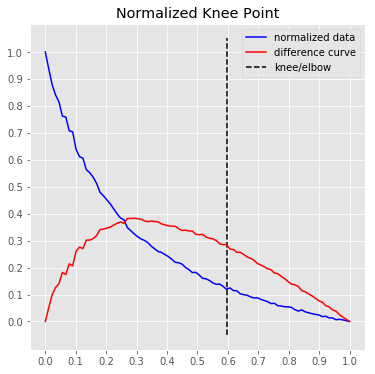
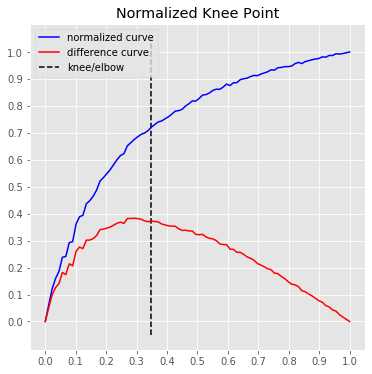
WIP: knee is the first knee, update plots

diff --git a/kneed/knee_locator.py b/kneed/knee_locator.py
@@ -79,7 +79,8 @@ class KneeLocator(object):
         self.Tmx = self.y_distance_maxima - (self.S * np.abs(np.diff(self.x_normalized).mean()))
 
         # Step 6: find knee
-        self.knee, self.norm_knee = self.find_knee()
+        self.find_knee()
+        self.knee, self.norm_knee = min(self.all_knees), min(self.all_norm_knees)
 
     @staticmethod
     def __normalize(a):
@@ -104,23 +105,17 @@ class KneeLocator(object):
             x = np.flip(x)
             y = np.flip(y)
 
-        return (x, y)
+        return x, y
 
     def find_knee(self, ):
-        """This function finds and returns the knee value, the normalized knee
-        value, and the x value where the knee is located.
-        :returns: tuple(knee, norm_knee, knee_x)
-        :rtype: (float, float, int)
-        )
-        """
+        """This function finds and sets the knee value and the normalized knee value. """
         if not self.maxima_inidices.size:
             warnings.warn("No local maxima found in the distance curve\n"
                           "The line is probably not polynomial, try plotting\n"
                           "the distance curve with plt.plot(knee.x_distance, knee.y_distance)\n"
                           "Also check that you aren't mistakenly setting the curve argument", RuntimeWarning)
-            return None, None, None
+            return None, None
 
-        knee, norm_knee, knee_x = None, None, None
         # artificially place a local max at the last item in the x_distance array
         self.maxima_inidices = np.append(self.maxima_inidices, len(self.x_distance) - 1)
         self.minima_indices = np.append(self.minima_indices, len(self.x_distance) - 1)
@@ -130,6 +125,7 @@ class KneeLocator(object):
         minima_threshold_index = 0
         # traverse the distance curve
         for idx, i in enumerate(self.x_distance):
+            # reached the end of the curve
             if i == 1.0:
                 break
             # values in distance curve are at or after a local maximum
@@ -171,7 +167,8 @@ class KneeLocator(object):
                         norm_knee = self.x_normalized[threshold_index]
                         self.all_norm_knees.add(norm_knee)
 
-        return knee, norm_knee
+        if self.all_knees == set():
+            warnings.warn('No knee/elbow found')
 
     def plot_knee_normalized(self, ):
         """Plot the normalized curve, the distance curve (x_distance, y_normalized) and the
@@ -179,21 +176,24 @@ class KneeLocator(object):
         """
         import matplotlib.pyplot as plt
 
-        plt.figure(figsize=(8, 8))
-        plt.plot(self.x_normalized, self.y_normalized)
-        plt.plot(self.x_distance, self.y_distance, 'r')
+        plt.figure(figsize=(6, 6))
+        plt.title('Normalized Knee Point')
+        plt.plot(self.x_normalized, self.y_normalized, 'b', label='normalized curve')
+        plt.plot(self.x_distance, self.y_distance, 'r', label='difference curve')
         plt.xticks(np.arange(self.x_normalized.min(), self.x_normalized.max() + 0.1, 0.1))
         plt.yticks(np.arange(self.y_distance.min(), self.y_normalized.max() + 0.1, 0.1))
 
-        plt.vlines(self.norm_knee, plt.ylim()[0], plt.ylim()[1])
+        plt.vlines(self.norm_knee, plt.ylim()[0], plt.ylim()[1], linestyles='--', label='knee/elbow')
+        plt.legend(loc='best')
 
     def plot_knee(self, ):
         """Plot the curve and the knee, if it exists"""
         import matplotlib.pyplot as plt
-
-        plt.figure(figsize=(8, 8))
-        plt.plot(self.x, self.y)
-        plt.vlines(self.knee, plt.ylim()[0], plt.ylim()[1])
+        plt.figure(figsize=(6, 6))
+        plt.title('Knee Point')
+        plt.plot(self.x, self.y, 'b', label='data')
+        plt.vlines(self.knee, plt.ylim()[0], plt.ylim()[1], linestyles='--', label='knee/elbow')
+        plt.legend(loc='best')
 
     # Niceties for users working with elbows rather than knees
 

diff --git a/tests/test_sample.py b/tests/test_sample.py
@@ -105,7 +105,7 @@ def test_convex_decreasing_truncated(interp_method):
 
 
 @pytest.mark.parametrize("interp_method, expected", [
-    ('interp1d', 53),
+    ('interp1d', 31),
     ('polynomial', 28)
 ])
 def test_convex_decreasing_bumpy(interp_method, expected):
@@ -116,11 +116,27 @@ def test_convex_decreasing_bumpy(interp_method, expected):
 
 
 def test_gamma():
-    n = 6000
+    np.random.seed(23)
+    n = 1000
     x = range(1, n + 1)
     y = sorted(np.random.gamma(0.5, 1.0, n), reverse=True)
     kl = KneeLocator(x, y, curve='convex', direction='decreasing')
-    assert math.isclose(kl.knee, 1000, abs_tol=500.0)
+    assert kl.knee == 43
+
+
+def test_sensitivity():
+    """Test the S parameter -- where S is the number of flat points to identify before calling a knee"""
+    np.random.seed(23)
+    sensitivity = [1, 3, 5, 10, 100, 200, 400]
+    detected_knees = []
+    expected_knees = [43, 137, 178, 258, 305, 482, 482]
+    n = 1000
+    x = range(1, n + 1)
+    y = sorted(np.random.gamma(0.5, 1.0, n), reverse=True)
+    for s, expected_knee in zip(sensitivity, expected_knees):
+        kl = KneeLocator(x, y, curve='convex', direction='decreasing', S=s)
+        detected_knees.append(kl.knee)
+        assert kl.knee, expected_knee
 
 
 def test_sine():
@@ -136,6 +152,6 @@ def test_sine():
     expected_knees = [4.5, 4.9, 1.4, 7.7, 8.1, 1.8]
     detected_knees = []
     for direction, curve in sine_combos:
-        kl_sine = KneeLocator(x, y_sin, S=1, direction=direction, curve=curve)
+        kl_sine = KneeLocator(x, y_sin, direction=direction, curve=curve, S=1)
         detected_knees.extend(kl_sine.all_knees)
     assert np.isclose(expected_knees, detected_knees).all()

diff --git a/README.md b/README.md
@@ -12,6 +12,7 @@ This repository is an attempt to implement the kneedle algorithm, published [her
 - [Usage](#usage)
     * [Input Data](#input-data)
     * [Find Knee](#find-knee)
+    * [Sensitivity parameter (S)](#sensitivity-parameter-s)
     * [Visualize](#visualize)
 - [Examples](#examples)
     * [Noisy Gaussian](#noisygaussian)
@@ -70,6 +71,52 @@ print(round(kneedle.knee, 3))
 print(round(kneedle.elbow, 3))
 0.222
 ```
+
+### Sensitivity Parameter (S)
+The knee point selected is tunable by setting the sensitivity parameter **S**. 
+From the manuscript:
+> The sensitivity parameter allows us to adjust how aggressive we want Kneedle
+to be when detecting knees. Smaller values for S detect
+knees quicker, while larger values are more conservative.
+Put simply, S is a measure of how many “flat” points we
+expect to see in the unmodified data curve before declaring
+a knee.
+
+```python
+import numpy as np
+np.random.seed(23)
+
+sensitivity = [1, 3, 5, 10, 100, 200, 400]
+knees = []
+norm_knees = []
+
+n = 1000
+x = range(1, n + 1)
+y = sorted(np.random.gamma(0.5, 1.0, n), reverse=True)
+for s in sensitivity:
+    kl = KneeLocator(x, y, curve='convex', direction='decreasing', S=s)
+    knees.append(kl.knee)
+    norm_knees.append(kl.norm_knee)
+
+print(knees)
+[43, 137, 178, 258, 305, 482, 482]
+
+print([nk.round(2) for nk in norm_knees])
+[0.04, 0.14, 0.18, 0.26, 0.3, 0.48, 0.48]
+
+import matplotlib.pyplot as plt
+plt.style.use('ggplot');
+plt.figure(figsize=(8, 6));
+plt.plot(kl.x_normalized, kl.y_normalized);
+plt.plot(kl.x_distance, kl.y_distance);
+colors = ['r', 'g', 'k', 'm', 'c', 'orange']
+for k, c, s in zip(norm_knees, colors, sensitivity):
+    plt.vlines(k, 0, 1, linestyles='--', colors=c, label=f'S = {s}');
+plt.legend();
+```
+![](images/S_parameter.png)
+
+Notice that any **S**>200 will result in a knee at 482 in the plot above.
 
 ### Visualize
 The `KneeLocator` class also has two plotting functions for quick visualizations.
